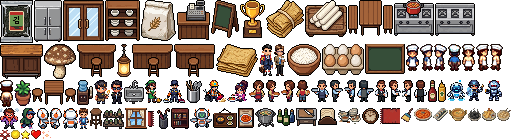
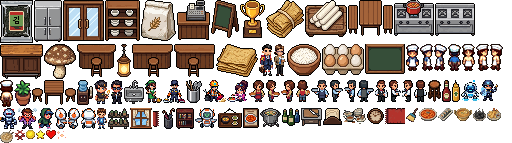
바 스툴 외곽선 추가, 조리 시 화구 위 말풍선·게이지 제거 (팬 위 음식만 표시)
Claude-Session: https://claude.ai/code/session_0158wwMB9e4mDcVmGF2JCoym

diff --git a/js/px-atlas.js b/js/px-atlas.js
@@ -3,11 +3,11 @@ export const PX_SRC = 'assets/px/px.png';
 export const PX_ROOM = 'assets/px/room.png';
 export const PX = {
   aboard: [211, 0, 28, 38],
-  angry: [0, 130, 10, 10],
+  angry: [15, 130, 10, 10],
   bar_seg: [0, 44, 43, 35],
-  bookshelf: [171, 108, 18, 21],
-  bottles: [277, 108, 18, 18],
-  broom: [401, 108, 12, 14],
+  bookshelf: [176, 108, 18, 21],
+  bottles: [282, 108, 18, 18],
+  broom: [406, 108, 12, 14],
   chalkboard: [365, 44, 40, 30],
   chef_f_back: [0, 80, 13, 27],
   chef_f_front: [462, 44, 13, 27],
@@ -20,28 +20,28 @@ export const PX = {
   cleaner1: [145, 80, 17, 23],
   cleaner2: [163, 80, 22, 23],
   cleaner3: [203, 80, 23, 22],
-  cleaner4: [447, 80, 18, 21],
-  clock: [362, 108, 17, 16],
-  coin: [11, 130, 9, 9],
+  cleaner4: [461, 80, 18, 21],
+  clock: [367, 108, 17, 16],
+  coin: [26, 130, 9, 9],
   counter_a: [174, 44, 41, 33],
   counter_b: [77, 44, 39, 33],
   counter_c: [132, 44, 41, 33],
-  cust_kid: [79, 108, 10, 21],
+  cust_kid: [97, 108, 10, 21],
   cust_office_f: [274, 44, 12, 32],
   cust_office_m: [259, 44, 14, 32],
-  dish_burnt: [468, 108, 13, 13],
-  dish_eomuktang: [497, 108, 14, 13],
-  dish_kimbap: [433, 108, 15, 13],
-  dish_ramen: [449, 108, 18, 13],
-  dish_tteokbokki: [414, 108, 18, 13],
-  dish_twigim: [482, 108, 14, 13],
+  dish_burnt: [473, 108, 13, 13],
+  dish_eomuktang: [0, 130, 14, 13],
+  dish_kimbap: [438, 108, 15, 13],
+  dish_ramen: [454, 108, 18, 13],
+  dish_tteokbokki: [419, 108, 18, 13],
+  dish_twigim: [487, 108, 14, 13],
   door: [63, 0, 41, 41],
   fridge: [34, 0, 28, 42],
   guard1: [94, 80, 16, 24],
   guard2: [111, 80, 12, 24],
-  guard3: [466, 80, 18, 21],
-  guard4: [485, 80, 17, 21],
-  heart: [31, 130, 10, 9],
+  guard3: [480, 80, 18, 21],
+  guard4: [0, 108, 17, 21],
+  heart: [46, 130, 10, 9],
   ing_egg: [322, 44, 42, 31],
   ing_fishcake: [216, 44, 42, 33],
   ing_flour: [141, 0, 35, 41],
@@ -51,19 +51,19 @@ export const PX = {
   ing_tteok: [305, 0, 42, 37],
   ing_veggie: [44, 44, 32, 35],
   lantern: [117, 44, 14, 33],
-  menu_frame: [213, 108, 24, 20],
-  napkins: [318, 108, 19, 17],
+  menu_frame: [218, 108, 24, 20],
+  napkins: [323, 108, 19, 17],
   plant: [14, 80, 17, 26],
   pos: [177, 0, 33, 40],
-  poster: [238, 108, 16, 20],
-  pot: [255, 108, 21, 19],
-  prep: [296, 108, 21, 18],
+  poster: [243, 108, 16, 20],
+  pot: [260, 108, 21, 19],
+  prep: [301, 108, 21, 18],
   rack: [105, 0, 35, 41],
-  rowdy_loud: [0, 108, 19, 21],
+  rowdy_loud: [18, 108, 19, 21],
   rowdy_picky: [227, 80, 21, 22],
-  rowdy_sneak: [20, 108, 16, 21],
-  rug: [380, 108, 20, 16],
-  sauces: [428, 80, 18, 22],
+  rowdy_sneak: [38, 108, 16, 21],
+  rug: [385, 108, 20, 16],
+  sauces: [442, 80, 18, 22],
   server1_back: [296, 80, 14, 22],
   server1_front: [249, 80, 16, 22],
   server1_left: [281, 80, 14, 22],
@@ -76,23 +76,23 @@ export const PX = {
   server3_front: [375, 80, 13, 22],
   server3_left: [402, 80, 11, 22],
   server3_right: [389, 80, 12, 22],
-  server4_back: [63, 108, 15, 21],
-  server4_front: [190, 108, 22, 20],
-  server4_left: [50, 108, 12, 21],
-  server4_right: [37, 108, 12, 21],
+  server4_back: [81, 108, 15, 21],
+  server4_front: [195, 108, 22, 20],
+  server4_left: [68, 108, 12, 21],
+  server4_right: [55, 108, 12, 21],
   sink: [124, 80, 20, 24],
-  sparkle: [42, 130, 9, 9],
-  spice_shelf: [103, 108, 21, 21],
-  star: [21, 130, 9, 9],
-  stool2: [90, 108, 12, 21],
+  sparkle: [57, 130, 9, 9],
+  spice_shelf: [108, 108, 21, 21],
+  star: [36, 130, 9, 9],
+  stool2: [428, 80, 13, 22],
   stove: [394, 0, 40, 36],
   stove_empty: [435, 0, 40, 36],
   table: [32, 80, 44, 25],
   table_long: [348, 0, 45, 36],
-  trash: [338, 108, 23, 16],
+  trash: [343, 108, 23, 16],
   trophy: [240, 0, 25, 38],
-  umbrella: [148, 108, 22, 21],
+  umbrella: [153, 108, 22, 21],
   utensils: [186, 80, 16, 23],
   water: [77, 80, 16, 25],
-  window: [125, 108, 22, 21],
+  window: [130, 108, 22, 21],
 };

diff --git a/js/business.js b/js/business.js
@@ -834,11 +834,6 @@ export class Business {
     g.fillRect(Math.round(b.x + 8 + this.ox), Math.round(b.y - 3 + this.oy), 6, 1);
     const hop = cooking ? -(Math.floor(this.clock * 10) % 2) : 0;
     this.spr(burnt ? 'dish_burnt' : DISH_PX[menuId], b.x, b.y - 2 + hop);
-    // 말풍선: 지금 만드는 음식 + 조리 게이지
-    const by = b.y - 18;
-    this.bubble(b.x, by, this.bubbleWOf(menuId), 15, '#1a0f0a', '#fff3c4');
-    this.spr(DISH_PX[menuId], b.x, by - 2);
-    if (cooking) this.pbar(b.x, by - 20, 18, k, burnt ? '#e0533d' : '#ff9a3d');
   }
 
   panPos() { return this.burnerPos(); }
